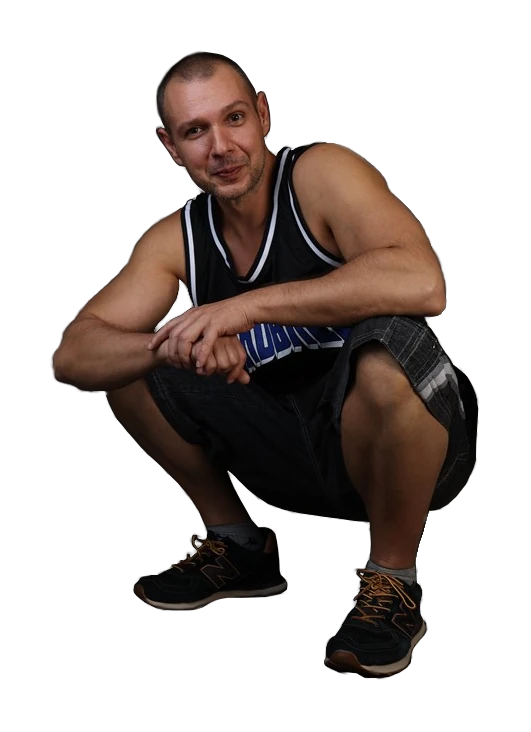
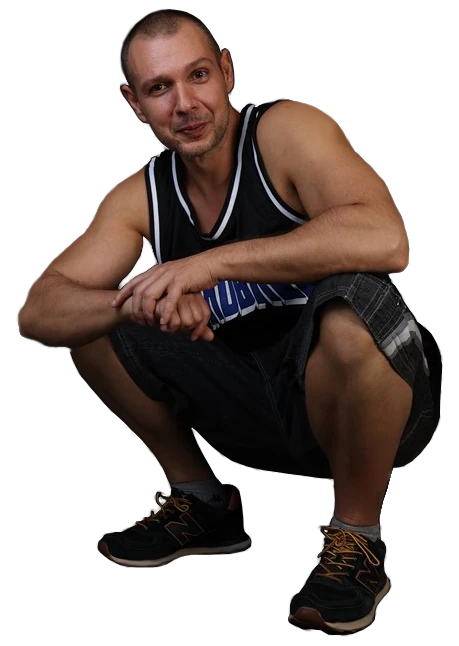
refactor: the main image in the hero section

Changed region(s): [[0.0305, 0.0, 0.976, 0.9907]]

diff --git a/components/sidebar/ScrollToTop.tsx b/components/sidebar/ScrollToTop.tsx
@@ -12,18 +12,16 @@ interface Props {
 
 const ScrollToTop: React.FC<Props> = ({ className, onClick, show }) => {
 	return (
-		<div className={cn("drop-shadow-xl fixed right-9 bottom-1 w-full", className)}>
-			<div className="w-full max-w-screen-1xl mx-auto flex items-center justify-end">
+		<div className={cn("drop-shadow-xl fixed bottom-2 w-full", className)}>
+			<div className={cn("w-full mx-auto flex items-center justify-end")}>
 				<div
 					className={cn(
-						"group drop-shadow-lg p-6 mr-0 cursor-pointer transition-transform duration-300",
+						"group drop-shadow-lg p-2 cursor-pointer transition-transform duration-300",
 						show ? "" : "translate-y-24"
 					)}
+					onClick={onClick}
 				>
-					<div
-						className="btn_ui_div text-foreground bg-slate-300 dark:bg-slate-700 group-hover:bg-accent dark:group-hover:text-background group-hover:text-background transition-colors duration-300"
-						onClick={onClick}
-					>
+					<div className="btn_ui_div text-foreground bg-slate-300 dark:bg-slate-700 group-hover:bg-accent dark:group-hover:text-background group-hover:text-background transition-colors duration-300">
 						<ChevronUp />
 					</div>
 				</div>

diff --git a/components/hero/Hero.tsx b/components/hero/Hero.tsx
@@ -47,10 +47,10 @@ const sliderVariants: Variants = {
 		x: "75%",
 	},
 	animate: {
-		x: "-1385%",
+		x: "-1735%",
 		transition: {
 			repeat: Infinity,
-			duration: 60,
+			duration: 65,
 			repeatDelay: 10,
 		},
 	},
@@ -98,20 +98,20 @@ const Hero: React.FC<Props> = ({ className }) => {
 						/>
 					</motion.div>
 				</motion.div>
-			</motion.div>
-			<motion.div
-				className={styles.imageContainer}
-				initial={{ opacity: 0, x: 350, y: 250, scale: 0.3 }}
-				transition={{ duration: 1 }}
-				whileInView={{
-					opacity: 1,
-					x: 0,
-					y: 0,
-					scale: 1,
-					transition: { delay: 0.5, duration: 0.75 },
-				}}
-			>
-				<Image alt={messages.Hero.modelImageAlt} src={model_image} />
+				<motion.div
+					animate={{
+						opacity: 1,
+						x: 0,
+						y: 0,
+						scale: 1,
+						transition: { delay: 0.3, duration: 0.7 },
+					}}
+					className={styles.modelImageContainer}
+					initial={{ opacity: 0, x: "350%", y: "-150%", scale: 0.3 }}
+					transition={{ duration: 1 }}
+				>
+					<Image priority alt={messages.Hero.modelImageAlt} src={model_image} />
+				</motion.div>
 			</motion.div>
 		</div>
 	);

diff --git a/components/hero/_hero.module.scss b/components/hero/_hero.module.scss
@@ -3,9 +3,10 @@
 .hero {
 	@apply relative z-0;
 	height: calc(vh(100) - $navbar-height);
+	// min-height: 550px;
 
 	.slidingTextContainer {
-		@apply absolute left-0 -bottom-24 text-[60vh] font-[900] whitespace-nowrap text-gray-950 max-w-[100%] leading-[1em];
+		@apply absolute left-0 -bottom-24 text-[60vh] font-[900] whitespace-nowrap text-gray-950 max-w-[1280px] leading-[1em];
 	}
 
 	.wrapper {
@@ -44,13 +45,15 @@
 				@apply w-12 h-auto cursor-pointer;
 			}
 		}
-	}
 
-	.imageContainer {
-		@apply absolute -right-12 xl:right-20 bottom-0 opacity-95 dark:opacity-90 drop-shadow-2xl z-0;
+		.modelImageContainer {
+			@apply absolute right-0 bottom-10 drop-shadow-2xl z-0 brightness-125 saturate-[90%];
 
-		img {
-			@apply drop-shadow-2xl z-0;
+			img {
+				@apply drop-shadow-2xl z-0 w-auto;
+				max-height: 95vh;
+				// min-height: 600px;
+			}
 		}
 	}
 }
